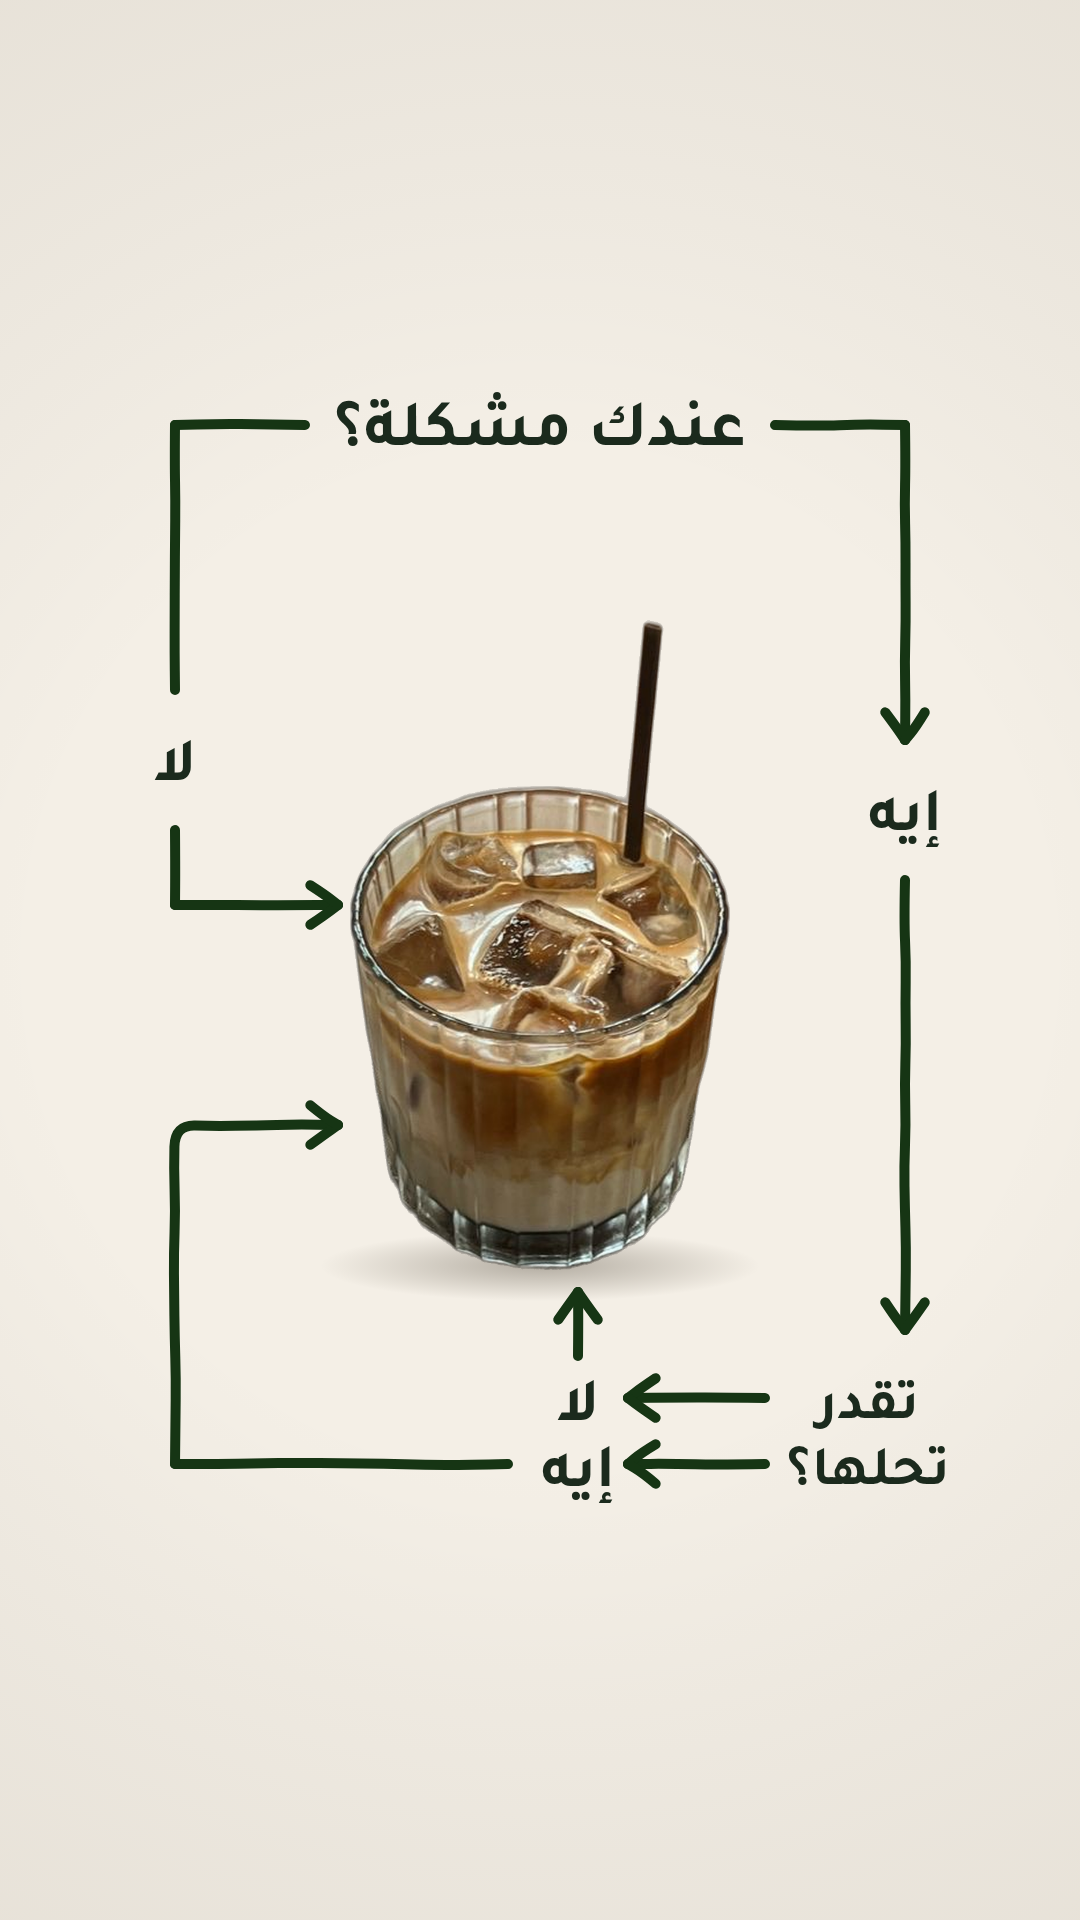
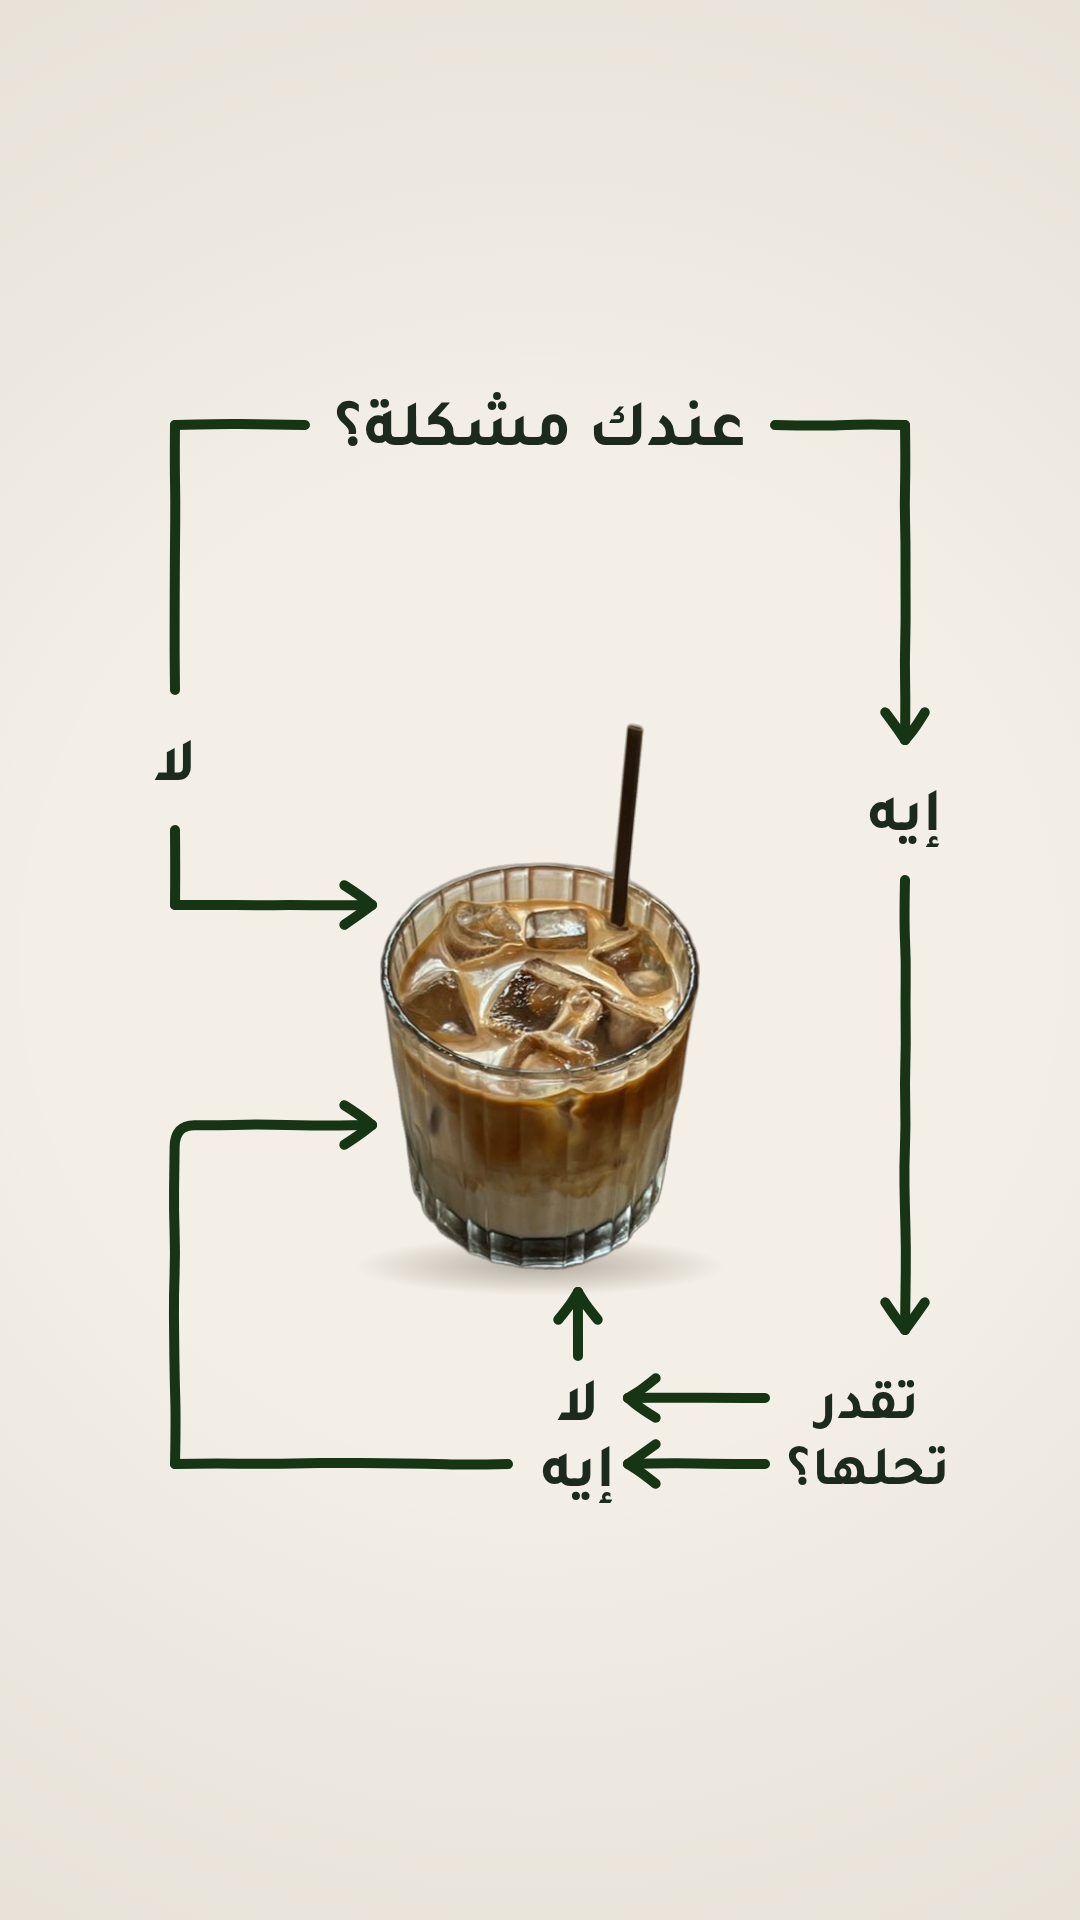
Flowchart story: smaller cup
Claude-Session: https://claude.ai/code/session_01UCKVHF8Bj15Neb29ir5cAN

Changed region(s): [[0.275, 0.3125, 0.6722, 0.6875]]

diff --git a/marketing/posts/coffee-flowchart-story/story.html b/marketing/posts/coffee-flowchart-story/story.html
@@ -38,17 +38,17 @@ window.ready = (async () => {
   // left: لا, straight into the coffee
   hand([[305, 425], [175, 425]]); hand([[175, 425], [175, 690]]);
   ar('لا', 175, 780, 62);
-  hand([[175, 830], [175, 905]]); arrow([[175, 905], [338, 905]]);
+  hand([[175, 830], [175, 905]]); arrow([[175, 905], [372, 905]]);
   // the coffee: the supplied glass, a little smaller
-  const cw = 380, ch = cw * cup.height / cup.width, cx = 540 - cw / 2, cy = 1270 - ch;
-  const sh = c.createRadialGradient(540, 1266, 10, 540, 1266, 220); sh.addColorStop(0, 'rgba(40,30,15,0.3)'); sh.addColorStop(1, 'rgba(40,30,15,0)');
-  c.save(); c.translate(540, 1266); c.scale(1, 0.16); c.translate(-540, -1266); c.fillStyle = sh; c.fillRect(310, 1046, 460, 440); c.restore();
+  const cw = 320, ch = cw * cup.height / cup.width, cx = 540 - cw / 2, cy = 1270 - ch;
+  const sh = c.createRadialGradient(540, 1266, 10, 540, 1266, 185); sh.addColorStop(0, 'rgba(40,30,15,0.3)'); sh.addColorStop(1, 'rgba(40,30,15,0)');
+  c.save(); c.translate(540, 1266); c.scale(1, 0.16); c.translate(-540, -1266); c.fillStyle = sh; c.fillRect(300, 1046, 480, 440); c.restore();
   c.drawImage(cup, cx, cy, cw, ch);
   // from "تقدر تحلها؟": two arrows, to لا and إيه
   arrow([[765, 1398], [628, 1398]]); arrow([[765, 1464], [628, 1464]]);
   ar('لا', 578, 1420, 62); ar('إيه', 578, 1486, 62);
   arrow([[578, 1356], [578, 1292]]);                                   // لا → up into the coffee
-  hand([[508, 1464], [175, 1464]]); arrow([[175, 1464], [175, 1125], [338, 1125]]);   // إيه → the long way round, still into the coffee
+  hand([[508, 1464], [175, 1464]]); arrow([[175, 1464], [175, 1125], [372, 1125]]);   // إيه → the long way round, still into the coffee
   // v2: no logo at the foot; the line at the top says it
 })();
 window.png = () => document.getElementById('c').toDataURL('image/png');
